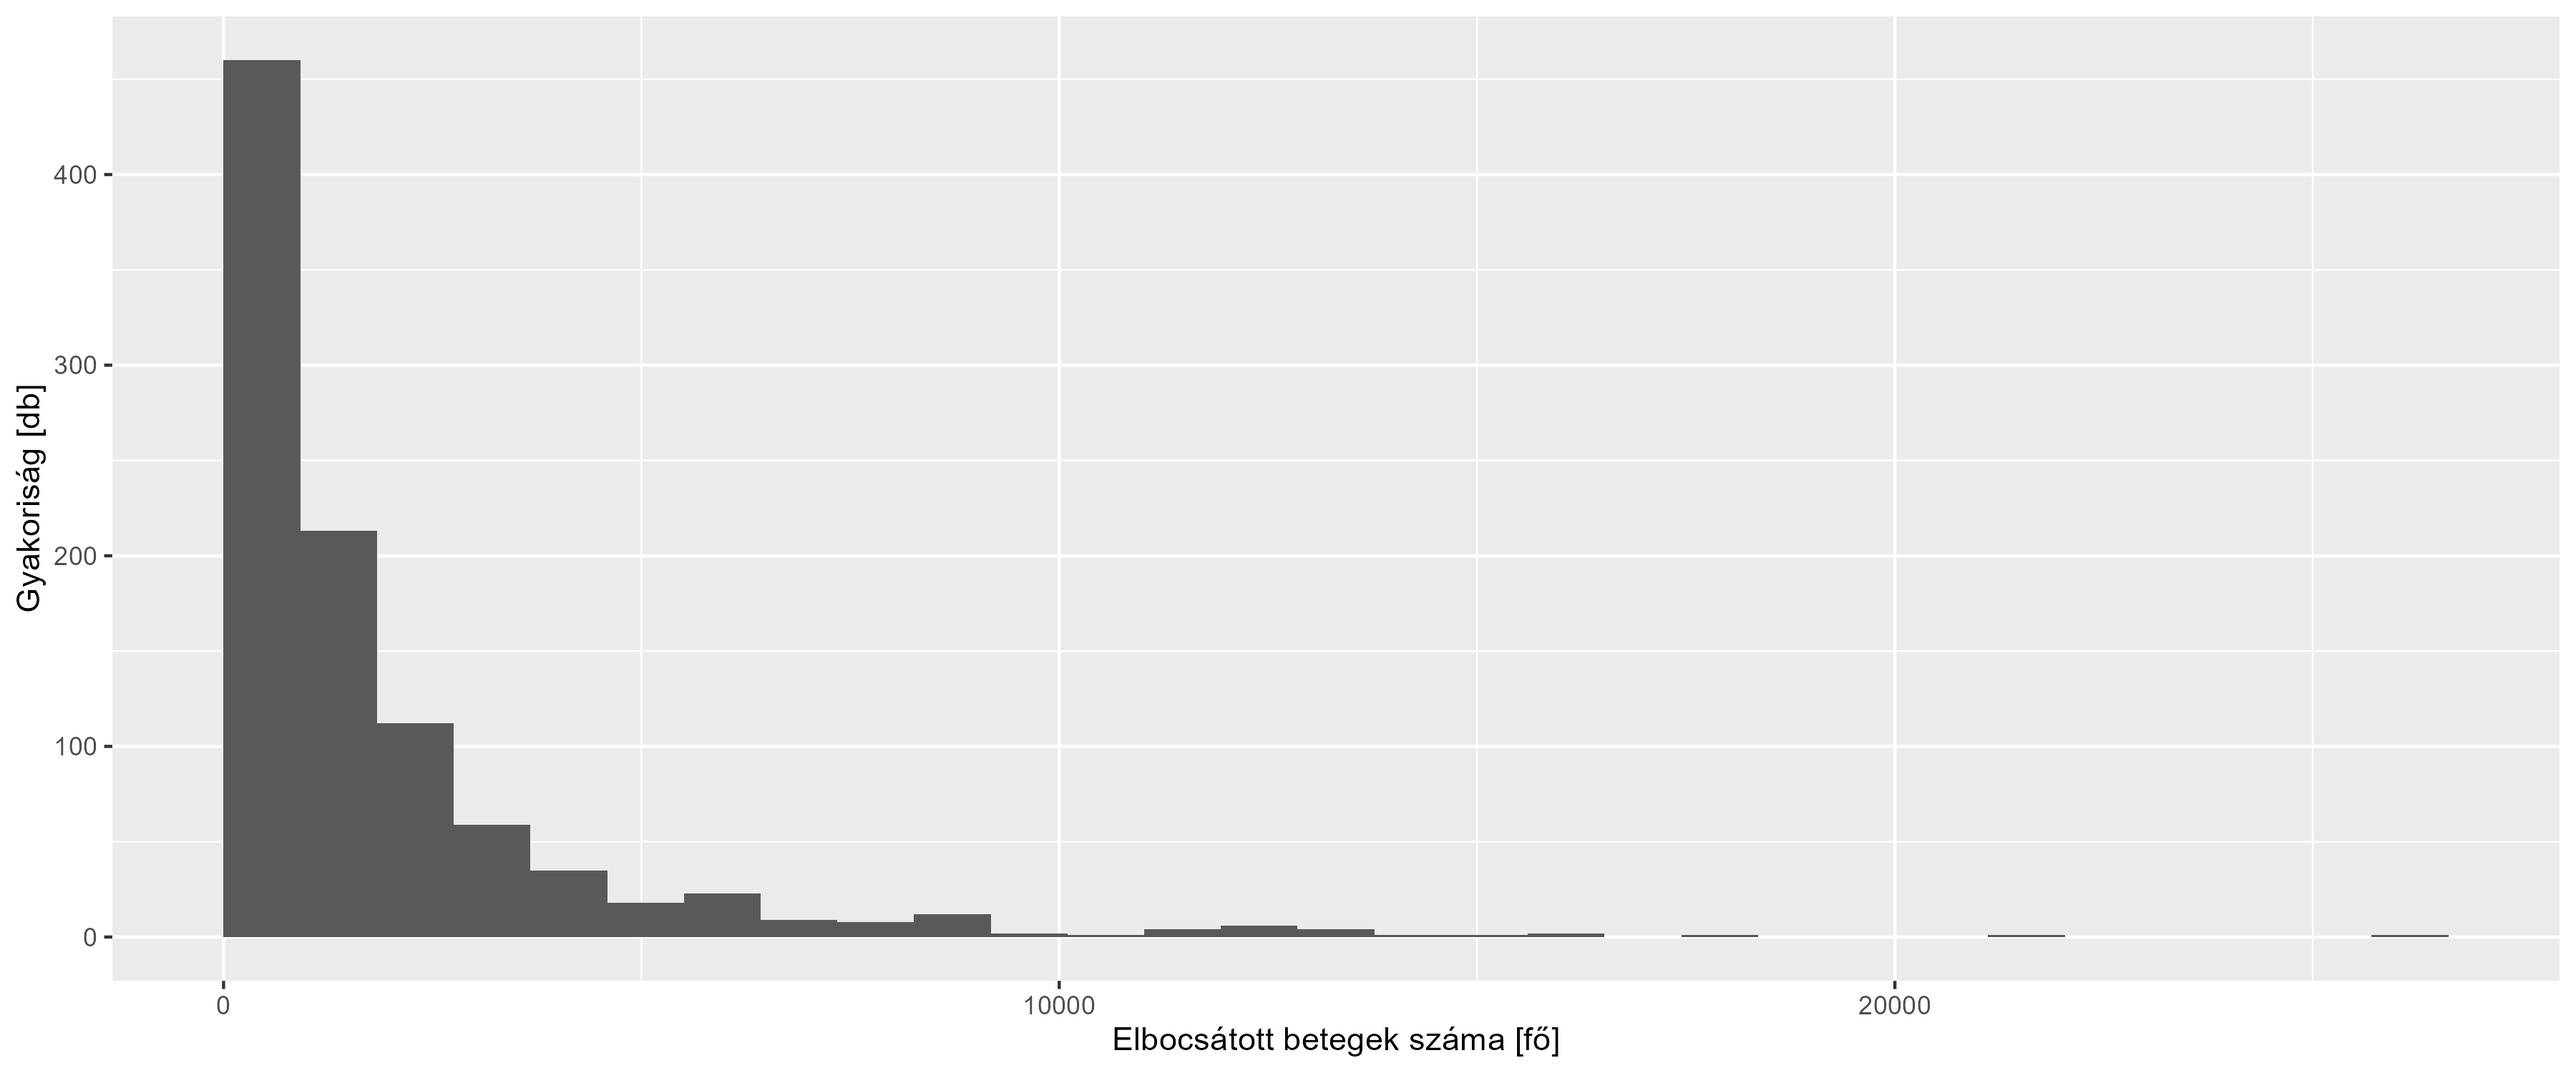
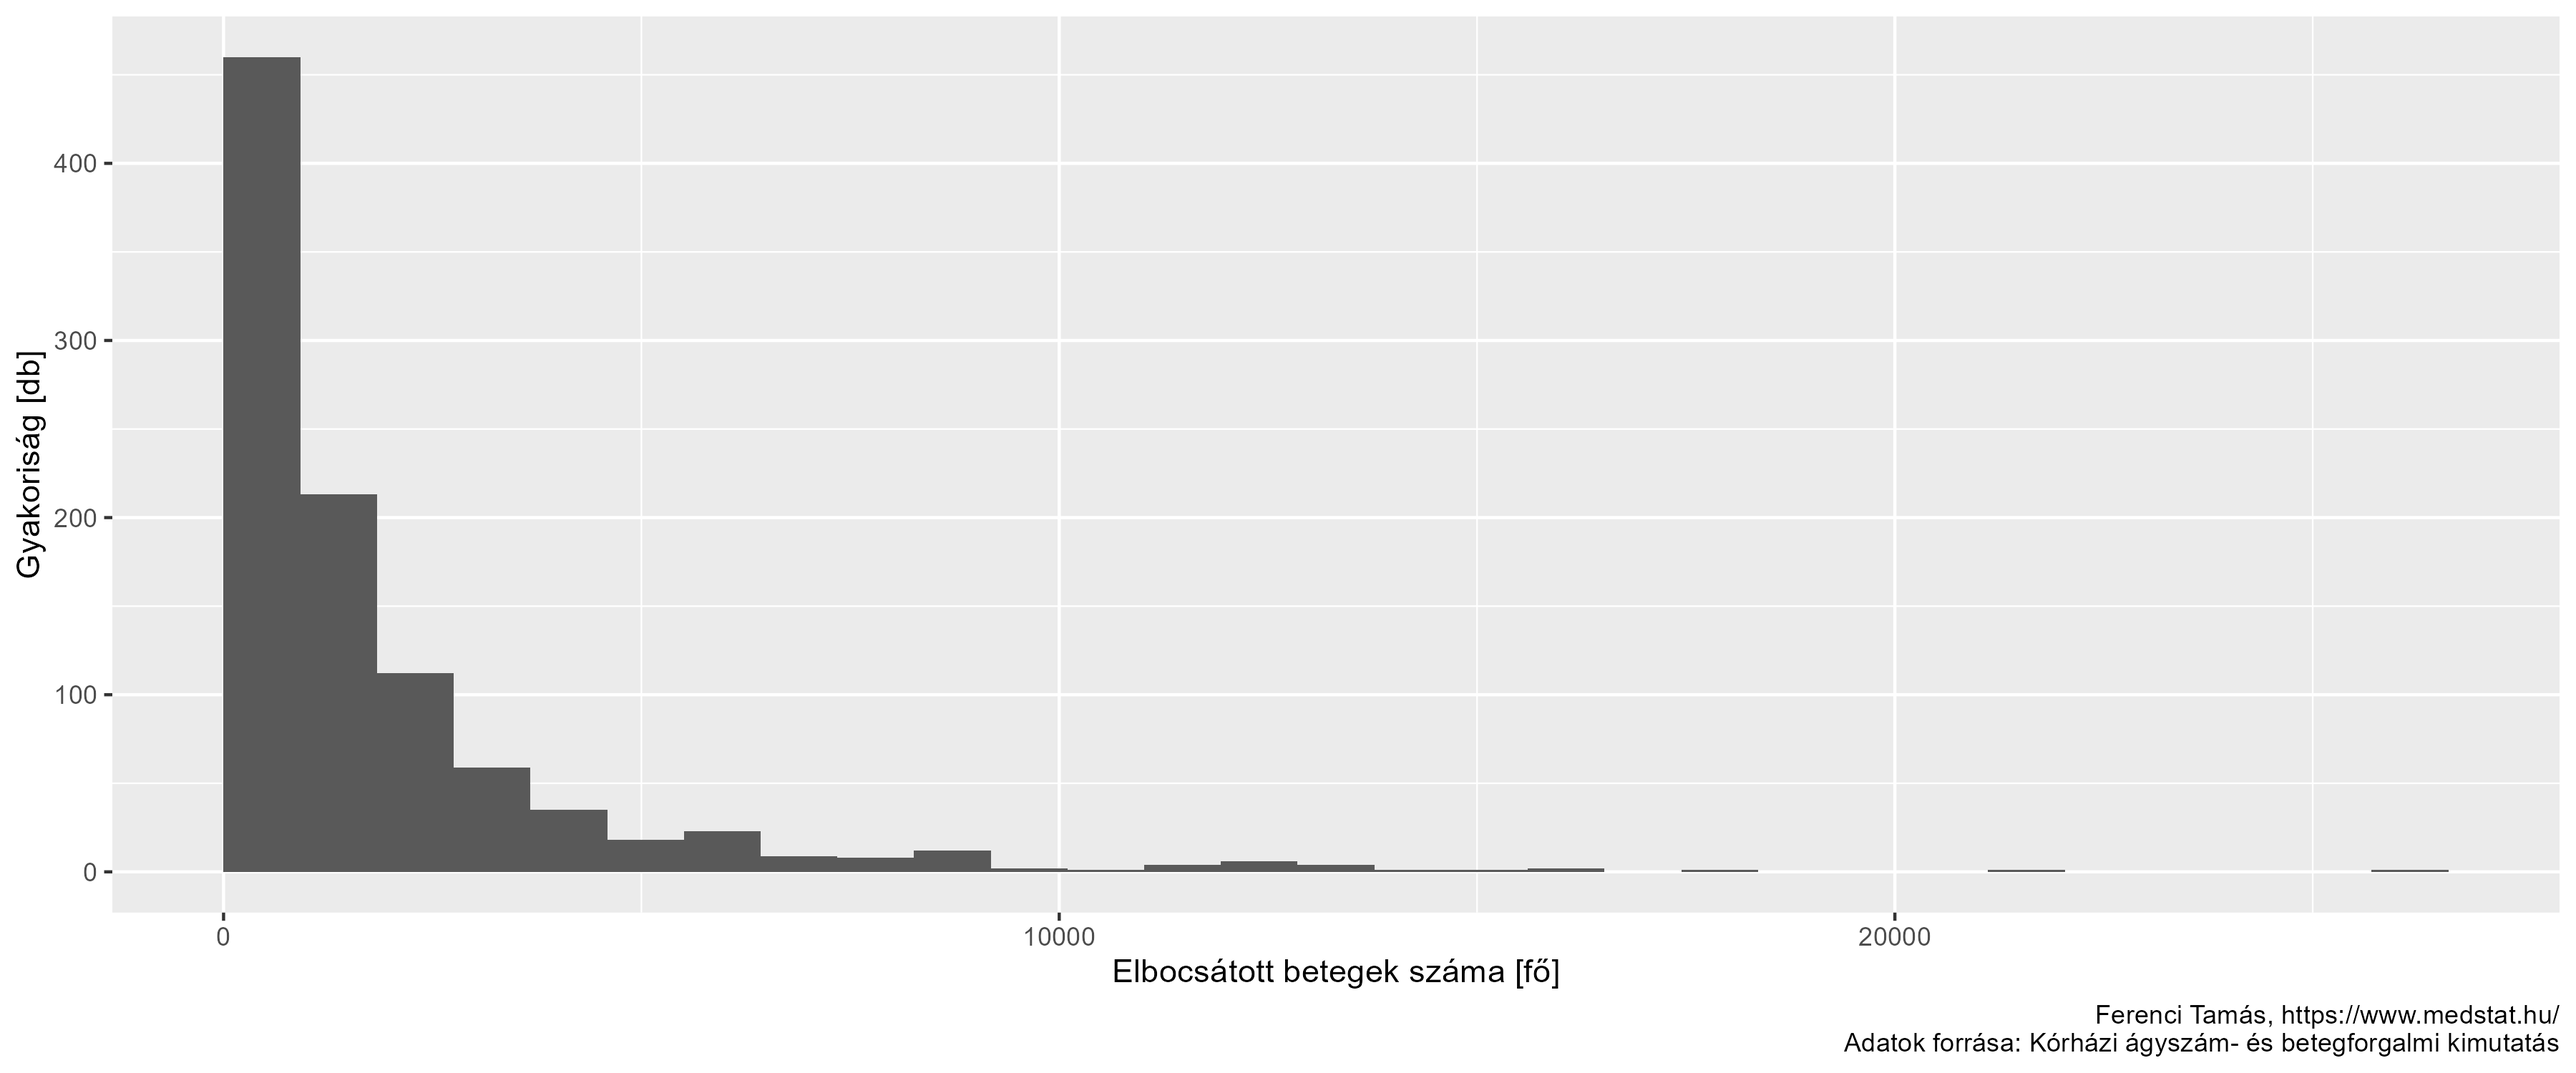
Ábrafeliratok kiegészítése.

diff --git a/README.md b/README.md
@@ -227,7 +227,7 @@ Kezdjük először egy helyzetképpel: nézzük meg a magyar kórházak szakmái
 ggplot(res[Ev==2024], aes(x = ElbocsatottBetegSzam)) +
   geom_histogram(boundary = 0, bins = 30) +
   labs(x = "Elbocsátott betegek száma [fő]",
-       y = "Gyakoriság [db]")
+       y = "Gyakoriság [db]", caption = captionlab)
 ```
 
 </details>
@@ -245,7 +245,8 @@ ggplot(res[Ev==2024],
        aes(x = ElbocsatottBetegSzam, y = SzakmaMegnev)) +
   geom_jitter(width = 0, height = 0.1) +
   scale_y_discrete(limits=rev) +
-  labs(x = "Elbocsátott betegszám [fő]", y = "")
+  labs(x = "Elbocsátott betegszám [fő]", y = "",
+       caption = captionlab)
 ```
 
 </details>
@@ -1201,7 +1202,9 @@ ggplot(res[NemSpecKh==TRUE&NemSpecSzakma==TRUE&MukodoAtlagAgy>0],
   geom_line(data = res[NemSpecKh==TRUE&NemSpecSzakma==TRUE&MukodoAtlagAgy>0][
     , .(ElbocsatottBetegSzam = mean(ElbocsatottBetegSzam)), .(Ev, SzakmaMegnev)],
     aes(x = Ev, y = ElbocsatottBetegSzam), inherit.aes = FALSE, color = "red") +
-  labs(x = "Év", y = "Elbocsátott betegszám [fő]") + scale_x_continuous(limits = range(res$Ev))
+  labs(x = "Év", y = "Elbocsátott betegszám [fő]",
+       caption = captionlab) +
+  scale_x_continuous(limits = range(res$Ev))
 ```
 
 </details>
@@ -1223,7 +1226,9 @@ ggplot(res[NemSpecKh==TRUE&NemSpecSzakma==TRUE&MukodoAtlagAgy>0][
   , .(ElbocsatottBetegSzam = sum(ElbocsatottBetegSzam)/1000), .(Ev, SzakmaMegnev)],
   aes(x = Ev, y = ElbocsatottBetegSzam)) +
   facet_wrap(~SzakmaMegnev, scales = "free") + geom_line() + geom_point() +
-  labs(x = "Év", y = "Elbocsátott betegszám [ezer fő]") + scale_x_continuous(limits = range(res$Ev))
+  labs(x = "Év", y = "Elbocsátott betegszám [ezer fő]",
+       caption = captionlab) +
+  scale_x_continuous(limits = range(res$Ev))
 ```
 
 </details>
@@ -1331,7 +1336,10 @@ ggplot(res2[, .((1-values[icha_hc=="IN"]/values[icha_hc=="TOT_PAT"])*100),
        aes(x = TIME_PERIOD, y = V1, group = forcats::fct_reorder(geo, geo=="HU", .fun = first),
            color = geo=="HU")) + scale_color_manual(values = c("FALSE" = "gray", "TRUE" = "red")) +
   guides(color = "none") + facet_wrap(~icd9cm) + geom_line() +
-  labs(x = "Év", y = "Egynapos ellátásban megoldott esetek aránya [%]")
+  labs(x = "Év", y = "Egynapos ellátásban megoldott esetek aránya [%]",
+       caption = paste0(
+         "Ferenci Tamás, https://www.medstat.hu/\n",
+         "Adatok forrása: Eurostat, hlth_co_proc2 és hlth_co_proc3"))
 ```
 
 </details>
@@ -1370,7 +1378,8 @@ ggplot(res[NemSpecKh==TRUE&NemSpecSzakma==TRUE&MukodoAtlagAgy>0],
   geom_line(data = res[NemSpecKh==TRUE&NemSpecSzakma==TRUE&MukodoAtlagAgy>0][
     ,.(EgynaposArany = sum(EgynaposEsetSzam)/sum(ElbocsatottBetegSzam)*100) , .(Ev, SzakmaMegnev)],
     aes(x = Ev, y = EgynaposArany), inherit.aes = FALSE, color = "red") +
-  labs(x = "Év", y = "Egynapos ellátásban megoldott esetek aránya [%]") +
+  labs(x = "Év", y = "Egynapos ellátásban megoldott esetek aránya [%]",
+       caption = captionlab) +
   scale_x_continuous(limits = range(res$Ev))
 ```
 
@@ -1467,7 +1476,11 @@ res2 <- res2[unit=="P_HTHAB"&facility=="HBEDT_CUR"&TIME_PERIOD=="2021-01-01"&nch
 res2$countryname <- countrycode::countrycode(res2$geo, "eurostat", "cldr.name.hu")
 ggplot(res2[order(values, decreasing = TRUE)],
        aes(y = factor(countryname, levels = countryname), x = values, fill = geo=="HU")) +
-  geom_col() + guides(fill = "none") + labs(x = "Aktív kórházi ágyak száma [ágy/100 ezer fő]", y = "")
+  geom_col() + guides(fill = "none") +
+  labs(x = "Aktív kórházi ágyak száma [ágy/100 ezer fő]", y = "",
+       caption = paste0(
+         "Ferenci Tamás, https://www.medstat.hu/\n",
+         "Adatok forrása: Eurostat, hlth_rd_bds1"))
 ```
 
 </details>
@@ -1512,7 +1525,9 @@ az átlagos működő ágyszámot alapul véve:
 
 ``` r
 ggplot(res[Ev==2024][MukodoAtlagAgy>0], aes(x = MukodoAtlagAgy)) +
-  geom_histogram(boundary = 0, bins = 30) + labs(x = "Működő átlagos ágyszám", y = "Gyakoriság [db]")
+  geom_histogram(boundary = 0, bins = 30) +
+  labs(x = "Működő átlagos ágyszám", y = "Gyakoriság [db]",
+       caption = captionlab)
 ```
 
 </details>
@@ -1529,7 +1544,7 @@ szakmák lényegesen eltérő jellegűek lehetnek. Ez önmagában is érdekes,
 ``` r
 ggplot(res[Ev==2024][MukodoAtlagAgy>0], aes(x = MukodoAtlagAgy, y = SzakmaMegnev)) + 
   geom_jitter(width = 0, height = 0.1) + scale_y_discrete(limits=rev) +
-  labs(x = "Működő átlagos ágyszám", y = "")
+  labs(x = "Működő átlagos ágyszám", y = "", caption = captionlab)
 ```
 
 </details>
@@ -2243,7 +2258,8 @@ meg. Ez így néz ki 2022-ben:
 ggplot(res[Ev==2024][MukodoAtlagAgy>0][,.(MukodoAtlagAgy = sum(MukodoAtlagAgy)), .(KorhazRovid)][
   order(MukodoAtlagAgy)], aes(x = MukodoAtlagAgy, y = factor(KorhazRovid, levels = KorhazRovid))) +
   geom_jitter(width = 0, height = 0.1) + scale_y_discrete(limits=rev) +
-  labs(x = "Működő átlagos aktív ágyszám", y = "Kórház azonosító")
+  labs(x = "Működő átlagos aktív ágyszám", y = "Kórház azonosító",
+       caption = captionlab)
 ```
 
 </details>
@@ -2351,8 +2367,9 @@ vizsgálata, de elsőként nézzünk inkább egy összképet. Így alakult az
 
 ``` r
 ggplot(res[,.(MukodoAtlagAgy = sum(MukodoAtlagAgy)) , .(Ev)],
-       aes(x = Ev, y = MukodoAtlagAgy)) + geom_point() + geom_line() + lims(y = c(0, NA)) +
-  labs(x = "Év", y = "Ágyszám")
+       aes(x = Ev, y = MukodoAtlagAgy)) + geom_point() +
+  geom_line() + lims(y = c(0, NA)) +
+  labs(x = "Év", y = "Ágyszám", caption = captionlab)
 ```
 
 </details>
@@ -2640,7 +2657,9 @@ magyar adatokon:
 ggplot(res[Ev==2024][NemSpecKh==TRUE&NemSpecSzakma==TRUE&MukodoAtlagAgy>0],
        aes(x = MukodoAtlagAgy, y = ElbocsatottBetegSzam)) +
   geom_point() + facet_wrap(~SzakmaMegnev) + geom_smooth(method = "lm", formula = y ~ x - 1) +
-  labs(x = "Működő ágyak átlagos száma", y = "Ellátott betegek száma")
+  labs(x = "Működő ágyak átlagos száma",
+       y = "Ellátott betegek száma",
+       caption = captionlab)
 ```
 
 </details>
@@ -2675,7 +2694,7 @@ Nézzük meg most e két tényezőt külön-külön! Kezdjük az
 ``` r
 ggplot(res[Ev==2024][MukodoAtlagAgy>0], aes(x = Agykihasznalas, y = SzakmaMegnev)) +
   geom_jitter(width = 0, height = 0.1) + scale_y_discrete(limits=rev) +
-  labs(x = "Ágykihasználás [%]", y = "")
+  labs(x = "Ágykihasználás [%]", y = "", caption = captionlab)
 ```
 
 </details>
@@ -2700,7 +2719,8 @@ ggplot(res[NemSpecKh==TRUE&NemSpecSzakma==TRUE&MukodoAtlagAgy>0],
   geom_line(data = res[NemSpecKh==TRUE&NemSpecSzakma==TRUE&MukodoAtlagAgy>0][
     ,.(Agykihasznalas = weighted.mean(Agykihasznalas, ElbocsatottBetegSzam)), .(Ev, SzakmaMegnev)],
     aes(x = Ev, y = Agykihasznalas), inherit.aes = FALSE, color = "red") +
-  labs(x = "Év", y = "Ágykihasználás [%]") + scale_x_continuous(limits = range(res$Ev))
+  labs(x = "Év", y = "Ágykihasználás [%]", caption = captionlab) +
+  scale_x_continuous(limits = range(res$Ev))
 ```
 
 </details>
@@ -2766,7 +2786,8 @@ Elsőként nézzük meg itt is a 2024-es adatokat:
 ``` r
 ggplot(res[Ev==2024][MukodoAtlagAgy>0], aes(x = ApolasAtlTartam, y = SzakmaMegnev)) +
   geom_jitter(width = 0, height = 0.1) + scale_y_discrete(limits=rev) +
-  labs(x = "Átlagos ápolási időtartam [nap]", y = "")
+  labs(x = "Átlagos ápolási időtartam [nap]", y = "",
+       caption = captionlab)
 ```
 
 </details>
@@ -2791,7 +2812,9 @@ ggplot(res[NemSpecKh==TRUE&NemSpecSzakma==TRUE&MukodoAtlagAgy>0],
   geom_line(data = res[NemSpecKh==TRUE&NemSpecSzakma==TRUE&MukodoAtlagAgy>0][
     ,.(ApolasAtlTartam = weighted.mean(ApolasAtlTartam, ElbocsatottBetegSzam, na.rm = TRUE)) , .(Ev, SzakmaMegnev)],
     aes(x = Ev, y = ApolasAtlTartam), inherit.aes = FALSE, color = "red") +
-  labs(x = "Év", y = "Átlagos ápolási időtartam [nap]") + scale_x_continuous(limits = range(res$Ev))
+  labs(x = "Év", y = "Átlagos ápolási időtartam [nap]",
+       caption = captionlab) +
+  scale_x_continuous(limits = range(res$Ev))
 ```
 
 </details>
@@ -2819,7 +2842,11 @@ res2 <- res2[age=="TOTAL"&sex=="T"&icd10=="A-T_Z"]
 ggplot(res2, aes(x = TIME_PERIOD, y = values,
                  group = forcats::fct_reorder(geo, geo=="HU", .fun = first), color = geo=="HU")) +
   geom_line() + scale_color_manual(values = c("FALSE" = "gray", "TRUE" = "red")) +
-  guides(color = "none") + labs(x = "Év", y = "Átlagos kórházi tartózkodás [nap]")
+  guides(color = "none") +
+  labs(x = "Év", y = "Átlagos kórházi tartózkodás [nap]",
+       caption = paste0(
+         "Ferenci Tamás, https://www.medstat.hu/\n",
+         "Adatok forrása: Eurostat, hlth_co_inpst"))
 ```
 
 </details>
@@ -3229,7 +3256,7 @@ szakmaosztályonként lebontva:
 ``` r
 ggplot(res[Ev==2024][MukodoAtlagAgy>0], aes(x = Halalozas, y = SzakmaMegnev)) +
   geom_jitter(width = 0, height = 0.1) + scale_y_discrete(limits=rev) +
-  labs(x = "Halálozási arány [%]", y = "")
+  labs(x = "Halálozási arány [%]", y = "", caption = captionlab)
 ```
 
 </details>
@@ -3283,7 +3310,8 @@ ggplot(res[Ev==2021][SzakmaMegnev=="Fül-orr-gégegyógyászat"&ElbocsatottBeteg
   , .(Halalozas, KorhazNev,
       t(Vectorize(function(x, n) binom.test(x, n)$conf.int*100)(MeghaltBetegSzam, ElbocsatottBetegSzam)))],
   aes(x = Halalozas, xmin = V1, xmax = V2, y = KorhazNev)) + geom_point() +
-  geom_errorbar(linewidth = 0.5) + labs(x = "Halálozási arány [%]", y = "")
+  geom_errorbar(linewidth = 0.5) +
+  labs(x = "Halálozási arány [%]", y = "", caption = captionlab)
 ```
 
 </details>
@@ -3339,7 +3367,7 @@ ggplot(res[Ev==2021][SzakmaMegnev=="Bőr- és nemibeteg"&ElbocsatottBetegSzam>30
   , .(Halalozas, KorhazNev,
       t(Vectorize(function(x, n) binom.test(x, n)$conf.int*100)(MeghaltBetegSzam, ElbocsatottBetegSzam)))],
   aes(x = Halalozas, xmin = V1, xmax = V2, y = KorhazNev)) + geom_point() + geom_errorbar(linewidth = 0.5) +
-  labs(x = "Halálozási arány [%]", y = "")
+  labs(x = "Halálozási arány [%]", y = "", caption = captionlab)
 ```
 
 </details>
@@ -3355,7 +3383,7 @@ ggplot(res[Ev==2021][SzakmaMegnev=="Pszichiátria"&ElbocsatottBetegSzam>30&Mukod
   , .(Halalozas, KorhazNev,
       t(Vectorize(function(x, n) binom.test(x, n)$conf.int*100)(MeghaltBetegSzam, ElbocsatottBetegSzam)))],
   aes(x = Halalozas, xmin = V1, xmax = V2, y = KorhazNev)) + geom_point() + geom_errorbar(linewidth = 0.5) +
-  labs(x = "Halálozási arány [%]", y = "")
+  labs(x = "Halálozási arány [%]", y = "", caption = captionlab)
 ```
 
 </details>
@@ -3376,7 +3404,7 @@ ggplot(res[Ev==2024][ElbocsatottBetegSzam>30&MukodoAtlagAgy>0][
                                                                 ElbocsatottBetegSzam)))],
   aes(x = Halalozas, xmin = V1, xmax = V2, y = KorhazRovid)) +
   facet_wrap(~SzakmaMegnev, scales = "free") + geom_point() + geom_errorbar(linewidth = 0.5) +
-  labs(x = "Halálozási arány [%]", y = "")
+  labs(x = "Halálozási arány [%]", y = "", caption = captionlab)
 ```
 
 </details>
@@ -3391,7 +3419,8 @@ is, itt minden vonal egy kórházat jelöl:
 ``` r
 ggplot(res[NemSpecSzakma==TRUE], aes(x = Ev, y = Halalozas, group = KorhazRovid)) +
   geom_line(alpha = 0.2) + facet_wrap(~SzakmaMegnev, scales = "free") + guides(color = "none") +
-  labs(x = "Év", y = "Halálozási arány [%]") + scale_x_continuous(limits = range(res$Ev))
+  labs(x = "Év", y = "Halálozási arány [%]", caption = captionlab) +
+  scale_x_continuous(limits = range(res$Ev))
 ```
 
 </details>
